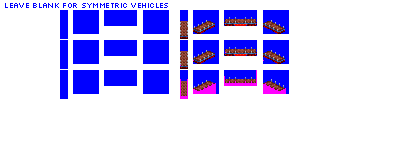
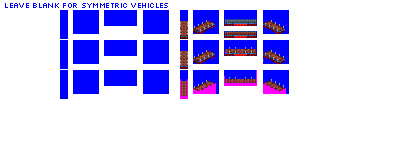
Change: WIP on vehicle transporter cars

Changed region(s): [[0.54, 0.1875, 0.66, 0.25], [0.54, 0.0938, 0.66, 0.1562]]

diff --git a/src/gestalt_graphics/gestalt_graphics.py b/src/gestalt_graphics/gestalt_graphics.py
@@ -169,9 +169,11 @@ class GestaltGraphicsVisibleCargo(GestaltGraphics):
     # cargo labels can be repeated for different sprites, they'll be used selectively by vehicle types and/or randomised as appropriate
     # keep alphabetised for general quality-of-life
     # DFLT label is a hack to support cargos with no specific sprites (including unknown cargos), and should not be added to cargo translation table
-    heavy_items_sprites_to_cargo_labels_maps = {'tarps_2cc_1': ['DFLT'],
+    heavy_items_sprites_to_cargo_labels_maps = {'tarps_2cc_1': ['DFLT'], # see note on use of DFLT above
                                                 'tractors_1': ['FMSP'],
-                                                'trucks_1': ['ENSP', 'FMSP', 'VEHI']}  # see note on use of DFLT above
+                                                'trucks_2': ['ENSP', 'FMSP', 'VEHI'],
+                                                'trucks_3': ['ENSP', 'FMSP', 'VEHI'],
+                                                'trucks_4': ['ENSP', 'FMSP', 'VEHI']}
 
 
 class GestaltGraphicsBoxCarOpeningDoors(GestaltGraphics):

diff --git a/src/gestalt_graphics/pipelines.py b/src/gestalt_graphics/pipelines.py
@@ -677,7 +677,7 @@ class ExtendSpriterowsForCompositedSpritesPipeline(Pipeline):
             cargo_filename = cargo_filename + '_' +  str(4 * self.vehicle_unit.vehicle_length) + 'px'
             cargo_sprites_input_path = os.path.join(currentdir, 'src', 'graphics', 'heavy_items_cargo', cargo_filename + '.png')
             # !! temp, needs defined per cargo graphic type
-            cargo_spriterow_offset = {1: 0, 2: 0, 3: 0, 4: 1, 5: 1, 6: 1}[self.consist.gen]
+            cargo_spriterow_offset = {1: 0, 2: 0, 3: 0, 4: 1, 5: 0, 6: 0}[self.consist.gen]
 
             crop_box_cargo_source = (0,
                                      10 + (cargo_spriterow_offset * graphics_constants.spriterow_height),
